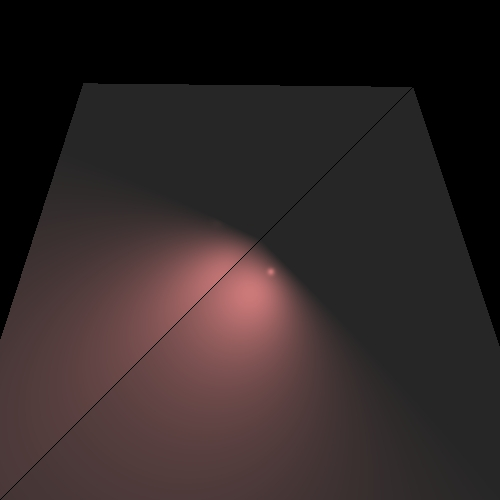
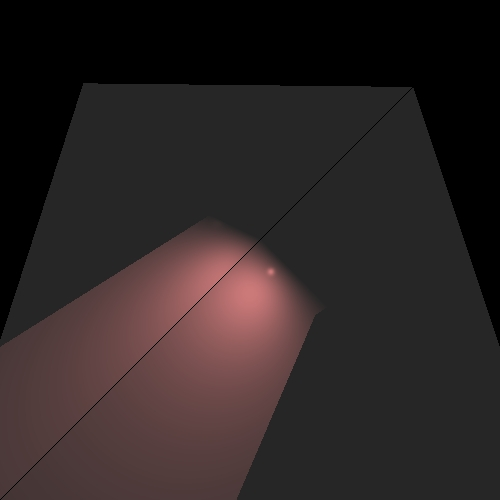
19/06 unshaded

Changed region(s): [[0.45, 0.63, 0.69, 1.0], [0.0, 0.45, 0.39, 0.69]]

diff --git a/src/renderer/Render.java b/src/renderer/Render.java
@@ -19,6 +19,7 @@ import static primitives.Util.alignZero;
 public class Render {
     private Scene scene;
     private  ImageWriter imageWriter ;
+    private static final double DELTA = 0.1;
 
     /**
      *Constructor
@@ -82,10 +83,10 @@ public class Render {
 
     private Color calcColor(Intersectable.GeoPoint intersection) {
         Color color = scene.getAmbientLight().getIntensity();
-        color = color.add(intersection.geometry.getEmission());
-        Vector v = intersection.point.subtract(scene.getCamera().getP0()).normalize();
-        Vector n = intersection.geometry.getNormal(intersection.point);
-        Material material = intersection.geometry.getMaterial();
+        color = color.add(intersection.getGeometry().getEmission());
+        Vector v = intersection.getPoint().subtract(scene.getCamera().getP0()).normalize();
+        Vector n = intersection.getGeometry().getNormal(intersection.getPoint());
+        Material material = intersection.getGeometry().getMaterial();
         int nShininess = material.getNShininess();
         double kd = material.getKD();
         double ks = material.getKS();
@@ -93,16 +94,17 @@ public class Render {
 
             List<LightSource> lightSources = scene.getLights();
             for (LightSource lightSource : lightSources) {
-                Vector l = lightSource.getL(intersection.point);
-                //double angleN = alignZero(n.dotProduct(l));
-                //double angleV = alignZero(v.dotProduct(l));
+                Vector l = lightSource.getL(intersection.getPoint());
                 if (sign(alignZero(n.dotProduct(l))) == sign(alignZero(n.dotProduct(v)))) {
-                    Color lightIntensity = lightSource.getIntensity(intersection.point);
-                    color = color.add(calcDiffusive(kd, l, n, lightIntensity),
-                            calcSpecular(ks, l, n, v, nShininess, lightIntensity));
+                    if (unshaded(l, n, intersection)) {
+                        Color lightIntensity = lightSource.getIntensity(intersection.getPoint());
+                        color = color.add(calcDiffusive(kd, l, n, lightIntensity),
+                                calcSpecular(ks, l, n, v, nShininess, lightIntensity));
+                    }
                 }
             }
         }
+
         return color;
     }
 
@@ -119,7 +121,7 @@ public class Render {
         Point3D p0 = this.scene.getCamera().getP0();
 
         for (Intersectable.GeoPoint p: points ) {
-            double dist = p0.distance(p.point);
+            double dist = p0.distance(p.getPoint());
             if (dist < t){
                 t= dist;
                 closest =p;
@@ -200,6 +202,24 @@ public class Render {
      */
     private boolean sign(double val) {
         return (val > 0d);
+    }
+
+    /**
+     * Function that checks whether an object is shadowed or not.
+     * It constructs the ray from the intersection point to the light source and if it has no intersections with other
+     * geometries, it returns true, otherwise false
+     * @param l
+     * @param n
+     * @param gp
+     * @return
+     */
+    private boolean unshaded(Vector l, Vector n, Intersectable.GeoPoint gp){
+        Vector pointToLight = l.scale(-1);
+        Vector delta = n.scale(Util.alignZero(pointToLight.dotProduct(n))>0? DELTA:-DELTA);
+        Point3D point = gp.getPoint().add(delta);
+        Ray toLight = new Ray(point, pointToLight);
+        List<Intersectable.GeoPoint> intersections = this.scene.getGeometries().findIntersections(toLight);
+        return  intersections==null;
     }
 }
 

diff --git a/src/geometries/Intersectable.java b/src/geometries/Intersectable.java
@@ -11,9 +11,9 @@ public interface Intersectable {
     /**
      * A class that connects the point to the geometry that to it's surface the point belongs
      */
-    public static class GeoPoint {
-        public Geometry geometry;
-        public Point3D point;
+    static class GeoPoint {//there is an access problem
+        protected final Geometry geometry;
+        protected final Point3D point;
 
         /**
          * Constructs a GeoPoint object by parameters
@@ -37,6 +37,13 @@ public interface Intersectable {
             return point.equals(geoPoint.point);
         }
 
+        public Geometry getGeometry() {
+            return geometry;
+        }
+
+        public Point3D getPoint() {
+            return point;
+        }
     }
     /**
      * The method of getting the intersection points with the ray
